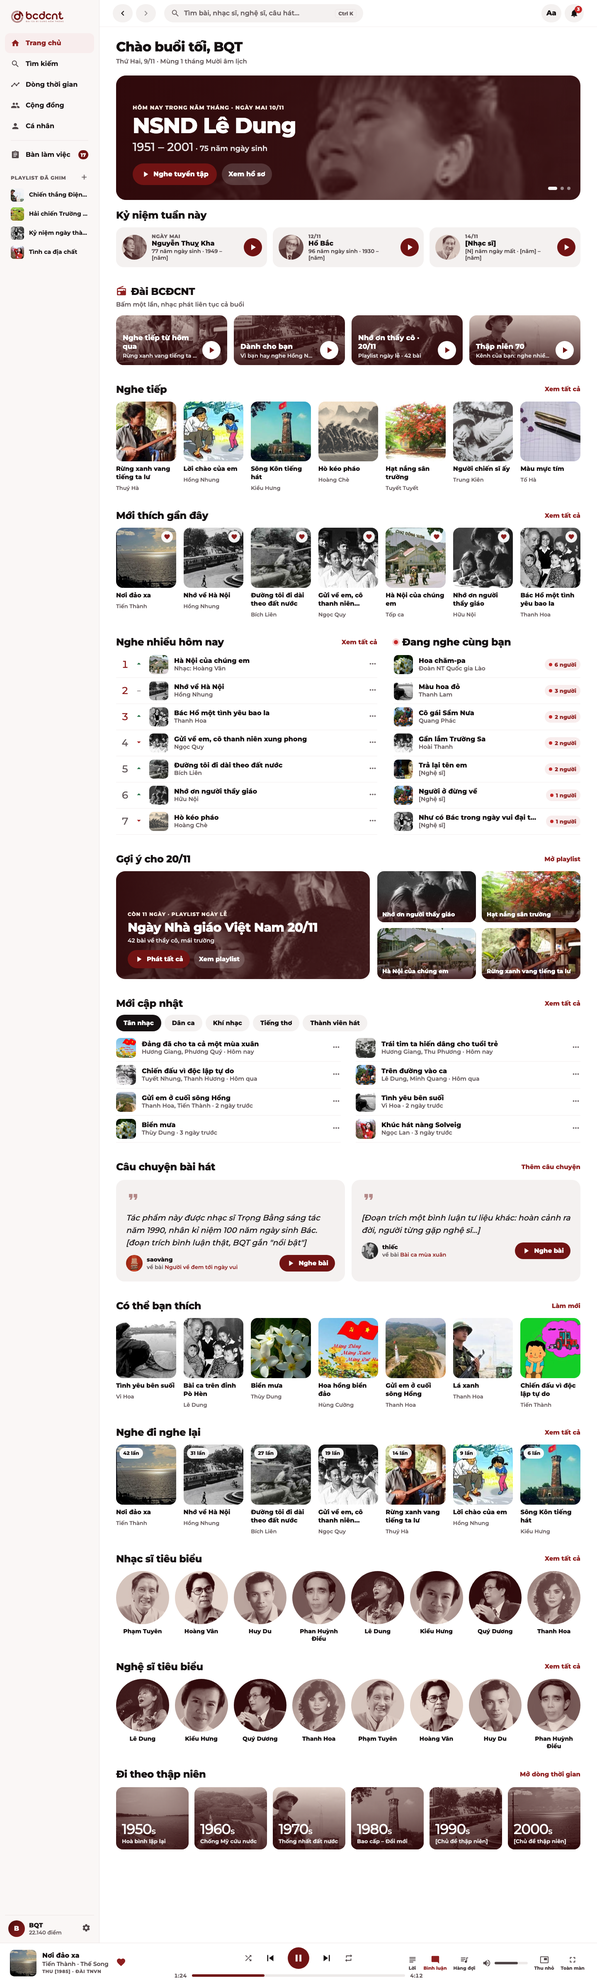
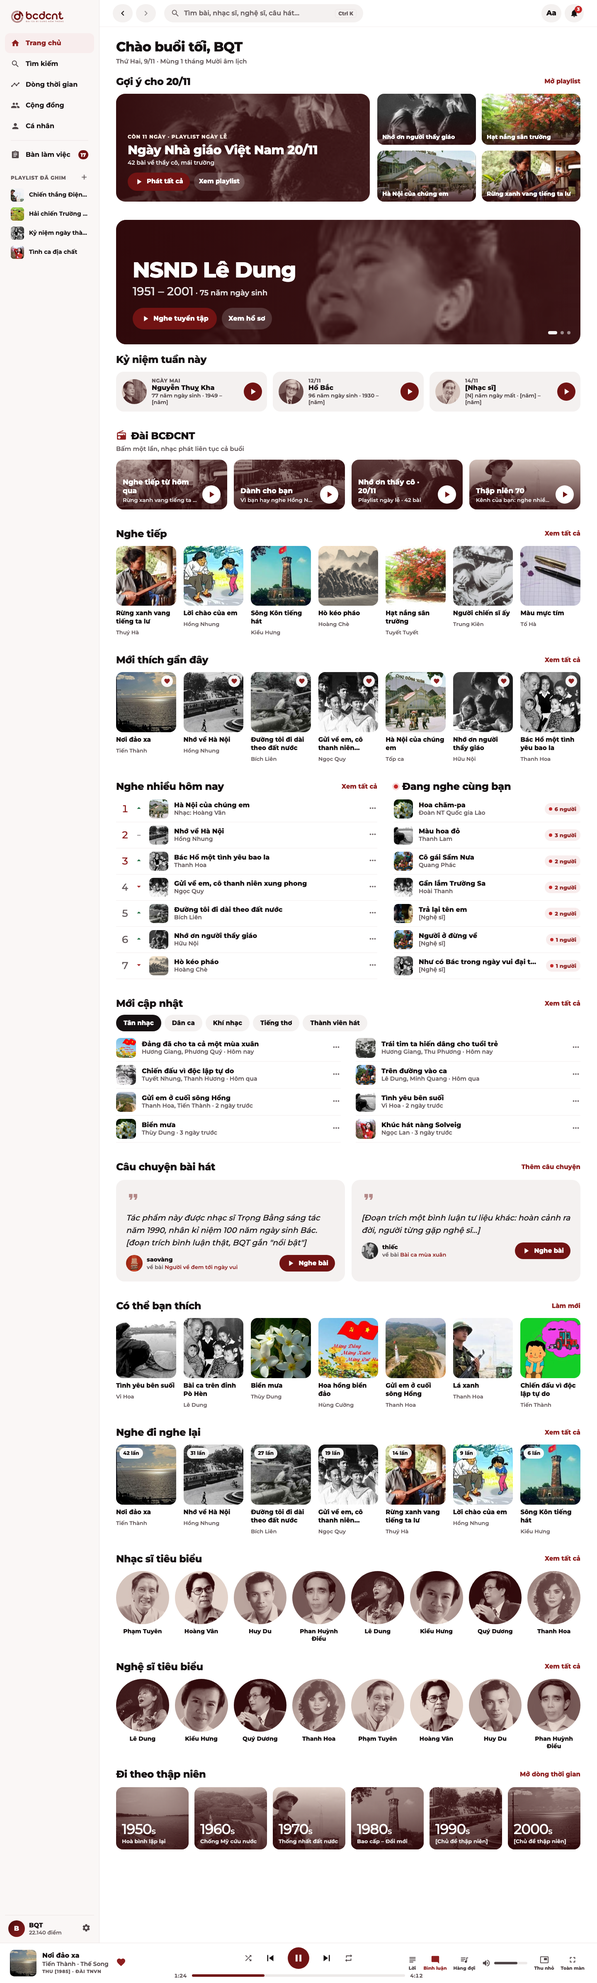
design(canvas): trang chủ desktop: Gợi ý ngày lễ lên đầu, bỏ dòng 'Hôm nay trong năm tháng'

Changed region(s): [[0.1875, 0.0312, 1.0, 0.4987]]

diff --git a/design/canvas/project/Desktop_TrangChu.dc.html b/design/canvas/project/Desktop_TrangChu.dc.html
@@ -32,9 +32,11 @@
 </div><main style="flex: 1; min-height: 0; overflow: hidden"><div style="padding: 28px 40px 56px; max-width: 1180px">
 <!-- Trang chủ desktop đủ khối như mobile (11 khối), thẻ bài 7 cột -->
 <!-- 1 --><div><h1 style="margin: 0; font-size: 32px; font-weight: 800; letter-spacing: -0.7px">Chào buổi tối, BQT</h1><div style="margin-top: 6px; font-size: 15px; font-weight: 600; color: #665C5E">Thứ Hai, 9/11 · Mùng 1 tháng Mười âm lịch</div></div>
-<!-- 2 --><div style="margin-top: 24px">
+<!-- 6 (lên đầu) --><div style="margin-top: 24px"><div style="display: flex; align-items: center; gap: 10px"><h2 style="margin: 0; flex: 1; font-size: 24px; font-weight: 800; letter-spacing: -0.4px">Gợi ý cho 20/11</h2><span style="font-size: 15px; font-weight: 800; color: #8E1F1F">Mở playlist</span></div></div><div style="margin-top: 14px; display: flex; gap: 18px"><div style="flex: 1.25; height: 260px; border-radius: 22px; overflow: hidden; position: relative"><img src="/_blob/ff509d607951ba314cc95c52003e4258" alt="" style="position: absolute; inset: 0; width: 100%; height: 100%; object-fit: cover; filter: url(#brandTint)"><span style="position: absolute; inset: 0; background: linear-gradient(90deg, rgba(46,8,10,0.9), rgba(46,8,10,0.2))"></span><div style="position: absolute; left: 28px; bottom: 26px; right: 28px; color: #fff"><div style="font-size: 12px; font-weight: 800; letter-spacing: 1px; color: #F6E8DE">CÒN 11 NGÀY · PLAYLIST NGÀY LỄ</div><div style="margin-top: 6px; font-size: 30px; font-weight: 800; letter-spacing: -0.6px">Ngày Nhà giáo Việt Nam 20/11</div><div style="margin-top: 4px; font-size: 14px; font-weight: 600; color: rgba(255,255,255,0.85)">42 bài về thầy cô, mái trường</div><div style="margin-top: 14px; display: flex; gap: 10px"><span style="height: 44px; padding: 0 16px; border-radius: 22px; display: inline-flex; align-items: center; gap: 8px; font-size: 15px; font-weight: 800; white-space: nowrap; background: #711313; color: #fff"><svg width="22" height="22" viewBox="0 0 24 24" fill="currentColor" aria-hidden="true" style="flex-shrink: 0"><path d="M8 5v14l11-7z"></path></svg>Phát tất cả</span><span style="height: 44px; padding: 0 12px; border-radius: 22px; display: inline-flex; align-items: center; gap: 8px; font-size: 15px; font-weight: 800; white-space: nowrap; background: rgba(255,255,255,0.16); color: #fff">Xem playlist</span></div></div></div>
+<div style="flex: 1; display: grid; grid-template-columns: 1fr 1fr; gap: 14px"><div style="border-radius: 16px; overflow: hidden; position: relative"><img src="/_blob/ff509d607951ba314cc95c52003e4258" alt="" style="position: absolute; inset: 0; width: 100%; height: 100%; object-fit: cover"><span style="position: absolute; inset: 0; background: linear-gradient(180deg, transparent 40%, rgba(46,8,10,0.85))"></span><span style="position: absolute; left: 12px; right: 12px; bottom: 10px; color: #fff; font-size: 14px; font-weight: 800; line-height: 18px">Nhớ ơn người thầy giáo</span></div><div style="border-radius: 16px; overflow: hidden; position: relative"><img src="/_blob/17cfb26ccce209eb43689b40e97d4991" alt="" style="position: absolute; inset: 0; width: 100%; height: 100%; object-fit: cover"><span style="position: absolute; inset: 0; background: linear-gradient(180deg, transparent 40%, rgba(46,8,10,0.85))"></span><span style="position: absolute; left: 12px; right: 12px; bottom: 10px; color: #fff; font-size: 14px; font-weight: 800; line-height: 18px">Hạt nắng sân trường</span></div><div style="border-radius: 16px; overflow: hidden; position: relative"><img src="/_blob/1bfcbf5bd606aa8a3d5f83975585c1e7" alt="" style="position: absolute; inset: 0; width: 100%; height: 100%; object-fit: cover"><span style="position: absolute; inset: 0; background: linear-gradient(180deg, transparent 40%, rgba(46,8,10,0.85))"></span><span style="position: absolute; left: 12px; right: 12px; bottom: 10px; color: #fff; font-size: 14px; font-weight: 800; line-height: 18px">Hà Nội của chúng em</span></div><div style="border-radius: 16px; overflow: hidden; position: relative"><img src="/_blob/eff02e07bb09eaa1645c9c7b7b91eb61" alt="" style="position: absolute; inset: 0; width: 100%; height: 100%; object-fit: cover"><span style="position: absolute; inset: 0; background: linear-gradient(180deg, transparent 40%, rgba(46,8,10,0.85))"></span><span style="position: absolute; left: 12px; right: 12px; bottom: 10px; color: #fff; font-size: 14px; font-weight: 800; line-height: 18px">Rừng xanh vang tiếng ta lư</span></div></div></div>
+<!-- 2 --><div style="margin-top: 44px">
 <div style="height: 300px; border-radius: 24px; overflow: hidden; position: relative; display: flex; align-items: flex-end"><img src="/_blob/28ee169b79f4516fdef9fdde9aba8fdb" alt="" style="position: absolute; inset: 0; width: 100%; height: 100%; object-fit: cover; object-position: center 25%; filter: url(#brandTint)"><span style="position: absolute; inset: 0; background: linear-gradient(90deg, rgba(46,8,10,0.92) 0%, rgba(46,8,10,0.55) 55%, rgba(46,8,10,0) 100%)"></span>
-<div style="position: relative; padding: 36px 40px; color: #fff; max-width: 620px"><div style="font-size: 13px; font-weight: 800; letter-spacing: 1px; color: #F6E8DE">HÔM NAY TRONG NĂM THÁNG · NGÀY MAI 10/11</div><div style="margin-top: 10px; display: flex; align-items: baseline; gap: 16px"><span style="font-size: 52px; font-weight: 800; letter-spacing: -1.2px; line-height: 1">NSND Lê Dung</span></div><div style="margin-top: 8px; font-size: 18px; font-weight: 600; color: rgba(255,255,255,0.88)"><span style="font-size: 28px; font-weight: 300">1951 – 2001</span> · 75 năm ngày sinh</div>
+<div style="position: relative; padding: 36px 40px; color: #fff; max-width: 620px"><div style="display: flex; align-items: baseline; gap: 16px"><span style="font-size: 52px; font-weight: 800; letter-spacing: -1.2px; line-height: 1">NSND Lê Dung</span></div><div style="margin-top: 8px; font-size: 18px; font-weight: 600; color: rgba(255,255,255,0.88)"><span style="font-size: 28px; font-weight: 300">1951 – 2001</span> · 75 năm ngày sinh</div>
 <div style="margin-top: 22px; display: flex; gap: 12px"><span style="height: 52px; padding: 0 20px; border-radius: 26px; display: inline-flex; align-items: center; gap: 8px; font-size: 16px; font-weight: 800; white-space: nowrap; background: #711313; color: #fff"><svg width="22" height="22" viewBox="0 0 24 24" fill="currentColor" aria-hidden="true" style="flex-shrink: 0"><path d="M8 5v14l11-7z"></path></svg>Nghe tuyển tập</span><span style="height: 52px; padding: 0 16px; border-radius: 26px; display: inline-flex; align-items: center; gap: 8px; font-size: 16px; font-weight: 800; white-space: nowrap; background: rgba(255,255,255,0.16); color: #fff">Xem hồ sơ</span></div></div>
 <div style="position: absolute; right: 24px; bottom: 24px; display: flex; gap: 8px"><span style="width: 22px; height: 8px; border-radius: 4px; background: rgba(255,255,255,0.95)"></span><span style="width: 8px; height: 8px; border-radius: 4px; background: rgba(255,255,255,0.5)"></span><span style="width: 8px; height: 8px; border-radius: 4px; background: rgba(255,255,255,0.5)"></span></div></div>
 </div><div style="margin-top: 22px"><div style="display: flex; align-items: center; gap: 10px"><h2 style="margin: 0; flex: 1; font-size: 24px; font-weight: 800; letter-spacing: -0.4px">Kỷ niệm tuần này</h2></div></div><div style="margin-top: 14px; display: grid; grid-template-columns: repeat(3, 1fr); gap: 14px"><div style="height: 96px; border-radius: 18px; background: #F4F1F0; display: flex; align-items: center; gap: 12px; padding: 0 12px 0 14px"><img src="/_blob/09b4a9d1f3cb118726c46f229ea0c467" alt="" style="width: 60px; height: 60px; border-radius: 30px; object-fit: cover; filter: url(#brandTint)"><span style="flex: 1; min-width: 0; display: flex; flex-direction: column"><span style="font-size: 12px; font-weight: 800; letter-spacing: 0.6px; color: #665C5E">NGÀY MAI</span><span style="font-size: 16px; font-weight: 800; white-space: nowrap; overflow: hidden; text-overflow: ellipsis">Nguyễn Thuỵ Kha</span><span style="font-size: 13px; font-weight: 600; color: #4F4547">77 năm ngày sinh · 1949 – [năm]</span></span><span style="width: 44px; height: 44px; border-radius: 22px; background: #711313; display: flex; align-items: center; justify-content: center"><svg width="24" height="24" viewBox="0 0 24 24" fill="#fff" aria-hidden="true" style="flex-shrink: 0"><path d="M8 5v14l11-7z"></path></svg></span></div><div style="height: 96px; border-radius: 18px; background: #F4F1F0; display: flex; align-items: center; gap: 12px; padding: 0 12px 0 14px"><img src="/_blob/7f1cc5b58b3c1010edc2852ecf82bb45" alt="" style="width: 60px; height: 60px; border-radius: 30px; object-fit: cover; filter: url(#brandTint)"><span style="flex: 1; min-width: 0; display: flex; flex-direction: column"><span style="font-size: 12px; font-weight: 800; letter-spacing: 0.6px; color: #665C5E">12/11</span><span style="font-size: 16px; font-weight: 800; white-space: nowrap; overflow: hidden; text-overflow: ellipsis">Hồ Bắc</span><span style="font-size: 13px; font-weight: 600; color: #4F4547">96 năm ngày sinh · 1930 – [năm]</span></span><span style="width: 44px; height: 44px; border-radius: 22px; background: #711313; display: flex; align-items: center; justify-content: center"><svg width="24" height="24" viewBox="0 0 24 24" fill="#fff" aria-hidden="true" style="flex-shrink: 0"><path d="M8 5v14l11-7z"></path></svg></span></div><div style="height: 96px; border-radius: 18px; background: #F4F1F0; display: flex; align-items: center; gap: 12px; padding: 0 12px 0 14px"><img src="/_blob/d0be117e25da69210e9340d3bc1ad3e9" alt="" style="width: 60px; height: 60px; border-radius: 30px; object-fit: cover; filter: url(#brandTint)"><span style="flex: 1; min-width: 0; display: flex; flex-direction: column"><span style="font-size: 12px; font-weight: 800; letter-spacing: 0.6px; color: #665C5E">14/11</span><span style="font-size: 16px; font-weight: 800; white-space: nowrap; overflow: hidden; text-overflow: ellipsis">[Nhạc sĩ]</span><span style="font-size: 13px; font-weight: 600; color: #4F4547">[N] năm ngày mất · [năm] – [năm]</span></span><span style="width: 44px; height: 44px; border-radius: 22px; background: #711313; display: flex; align-items: center; justify-content: center"><svg width="24" height="24" viewBox="0 0 24 24" fill="#fff" aria-hidden="true" style="flex-shrink: 0"><path d="M8 5v14l11-7z"></path></svg></span></div></div>
@@ -46,8 +48,6 @@
 <div style="display: flex; gap: 40px"><div style="flex: 7; min-width: 0"><div style="display: flex; align-items: center; gap: 10px"><h2 style="margin: 0; flex: 1; font-size: 24px; font-weight: 800; letter-spacing: -0.4px">Nghe nhiều hôm nay</h2><span style="font-size: 15px; font-weight: 800; color: #8E1F1F">Xem tất cả</span></div><div style="margin-top: 8px"><div style="height: 62px; display: flex; align-items: center; gap: 14px; border-bottom: 1px solid #F3EEEE"><span style="width: 30px; text-align: right; font-size: 24px; font-weight: 300; color: #8E1F1F; font-variant-numeric: tabular-nums">1</span><span style="color: #1A6B3C"><svg width="22" height="22" viewBox="0 0 24 24" fill="currentColor" aria-hidden="true" style="flex-shrink: 0"><path d="M7 14l5-5 5 5z"></path></svg></span><img src="/_blob/1bfcbf5bd606aa8a3d5f83975585c1e7" alt="" style="width: 46px; height: 46px; border-radius: 10px; object-fit: cover"><span style="flex: 1; min-width: 0; display: flex; flex-direction: column"><span style="font-size: 16px; font-weight: 800; white-space: nowrap; overflow: hidden; text-overflow: ellipsis">Hà Nội của chúng em</span><span style="font-size: 14px; font-weight: 600; color: #665C5E">Nhạc: Hoàng Vân</span></span><span style="color: #665C5E"><svg width="22" height="22" viewBox="0 0 24 24" fill="currentColor" aria-hidden="true" style="flex-shrink: 0"><path d="M6 10c-1.1 0-2 .9-2 2s.9 2 2 2 2-.9 2-2-.9-2-2-2zm12 0c-1.1 0-2 .9-2 2s.9 2 2 2 2-.9 2-2-.9-2-2-2zm-6 0c-1.1 0-2 .9-2 2s.9 2 2 2 2-.9 2-2-.9-2-2-2z"></path></svg></span></div><div style="height: 62px; display: flex; align-items: center; gap: 14px; border-bottom: 1px solid #F3EEEE"><span style="width: 30px; text-align: right; font-size: 24px; font-weight: 300; color: #8E1F1F; font-variant-numeric: tabular-nums">2</span><span style="width: 22px; text-align: center; color: #665C5E">–</span><img src="/_blob/1c5dda211792aea9143139f889d99c6c" alt="" style="width: 46px; height: 46px; border-radius: 10px; object-fit: cover"><span style="flex: 1; min-width: 0; display: flex; flex-direction: column"><span style="font-size: 16px; font-weight: 800; white-space: nowrap; overflow: hidden; text-overflow: ellipsis">Nhớ về Hà Nội</span><span style="font-size: 14px; font-weight: 600; color: #665C5E">Hồng Nhung</span></span><span style="color: #665C5E"><svg width="22" height="22" viewBox="0 0 24 24" fill="currentColor" aria-hidden="true" style="flex-shrink: 0"><path d="M6 10c-1.1 0-2 .9-2 2s.9 2 2 2 2-.9 2-2-.9-2-2-2zm12 0c-1.1 0-2 .9-2 2s.9 2 2 2 2-.9 2-2-.9-2-2-2zm-6 0c-1.1 0-2 .9-2 2s.9 2 2 2 2-.9 2-2-.9-2-2-2z"></path></svg></span></div><div style="height: 62px; display: flex; align-items: center; gap: 14px; border-bottom: 1px solid #F3EEEE"><span style="width: 30px; text-align: right; font-size: 24px; font-weight: 300; color: #8E1F1F; font-variant-numeric: tabular-nums">3</span><span style="color: #1A6B3C"><svg width="22" height="22" viewBox="0 0 24 24" fill="currentColor" aria-hidden="true" style="flex-shrink: 0"><path d="M7 14l5-5 5 5z"></path></svg></span><img src="/_blob/8baee7a6d349e2f91a66c082861a514c" alt="" style="width: 46px; height: 46px; border-radius: 10px; object-fit: cover"><span style="flex: 1; min-width: 0; display: flex; flex-direction: column"><span style="font-size: 16px; font-weight: 800; white-space: nowrap; overflow: hidden; text-overflow: ellipsis">Bác Hồ một tình yêu bao la</span><span style="font-size: 14px; font-weight: 600; color: #665C5E">Thanh Hoa</span></span><span style="color: #665C5E"><svg width="22" height="22" viewBox="0 0 24 24" fill="currentColor" aria-hidden="true" style="flex-shrink: 0"><path d="M6 10c-1.1 0-2 .9-2 2s.9 2 2 2 2-.9 2-2-.9-2-2-2zm12 0c-1.1 0-2 .9-2 2s.9 2 2 2 2-.9 2-2-.9-2-2-2zm-6 0c-1.1 0-2 .9-2 2s.9 2 2 2 2-.9 2-2-.9-2-2-2z"></path></svg></span></div><div style="height: 62px; display: flex; align-items: center; gap: 14px; border-bottom: 1px solid #F3EEEE"><span style="width: 30px; text-align: right; font-size: 24px; font-weight: 300; color: #665C5E; font-variant-numeric: tabular-nums">4</span><span style="color: #A32020"><svg width="22" height="22" viewBox="0 0 24 24" fill="currentColor" aria-hidden="true" style="flex-shrink: 0"><path d="M7 10l5 5 5-5z"></path></svg></span><img src="/_blob/0a4457564aa3b6ba9b1f0d4937deee1c" alt="" style="width: 46px; height: 46px; border-radius: 10px; object-fit: cover"><span style="flex: 1; min-width: 0; display: flex; flex-direction: column"><span style="font-size: 16px; font-weight: 800; white-space: nowrap; overflow: hidden; text-overflow: ellipsis">Gửi về em, cô thanh niên xung phong</span><span style="font-size: 14px; font-weight: 600; color: #665C5E">Ngọc Quy</span></span><span style="color: #665C5E"><svg width="22" height="22" viewBox="0 0 24 24" fill="currentColor" aria-hidden="true" style="flex-shrink: 0"><path d="M6 10c-1.1 0-2 .9-2 2s.9 2 2 2 2-.9 2-2-.9-2-2-2zm12 0c-1.1 0-2 .9-2 2s.9 2 2 2 2-.9 2-2-.9-2-2-2zm-6 0c-1.1 0-2 .9-2 2s.9 2 2 2 2-.9 2-2-.9-2-2-2z"></path></svg></span></div><div style="height: 62px; display: flex; align-items: center; gap: 14px; border-bottom: 1px solid #F3EEEE"><span style="width: 30px; text-align: right; font-size: 24px; font-weight: 300; color: #665C5E; font-variant-numeric: tabular-nums">5</span><span style="color: #1A6B3C"><svg width="22" height="22" viewBox="0 0 24 24" fill="currentColor" aria-hidden="true" style="flex-shrink: 0"><path d="M7 14l5-5 5 5z"></path></svg></span><img src="/_blob/f222b661580510c678d788ff90f68dbb" alt="" style="width: 46px; height: 46px; border-radius: 10px; object-fit: cover"><span style="flex: 1; min-width: 0; display: flex; flex-direction: column"><span style="font-size: 16px; font-weight: 800; white-space: nowrap; overflow: hidden; text-overflow: ellipsis">Đường tôi đi dài theo đất nước</span><span style="font-size: 14px; font-weight: 600; color: #665C5E">Bích Liên</span></span><span style="color: #665C5E"><svg width="22" height="22" viewBox="0 0 24 24" fill="currentColor" aria-hidden="true" style="flex-shrink: 0"><path d="M6 10c-1.1 0-2 .9-2 2s.9 2 2 2 2-.9 2-2-.9-2-2-2zm12 0c-1.1 0-2 .9-2 2s.9 2 2 2 2-.9 2-2-.9-2-2-2zm-6 0c-1.1 0-2 .9-2 2s.9 2 2 2 2-.9 2-2-.9-2-2-2z"></path></svg></span></div><div style="height: 62px; display: flex; align-items: center; gap: 14px; border-bottom: 1px solid #F3EEEE"><span style="width: 30px; text-align: right; font-size: 24px; font-weight: 300; color: #665C5E; font-variant-numeric: tabular-nums">6</span><span style="color: #1A6B3C"><svg width="22" height="22" viewBox="0 0 24 24" fill="currentColor" aria-hidden="true" style="flex-shrink: 0"><path d="M7 14l5-5 5 5z"></path></svg></span><img src="/_blob/ff509d607951ba314cc95c52003e4258" alt="" style="width: 46px; height: 46px; border-radius: 10px; object-fit: cover"><span style="flex: 1; min-width: 0; display: flex; flex-direction: column"><span style="font-size: 16px; font-weight: 800; white-space: nowrap; overflow: hidden; text-overflow: ellipsis">Nhớ ơn người thầy giáo</span><span style="font-size: 14px; font-weight: 600; color: #665C5E">Hữu Nội</span></span><span style="color: #665C5E"><svg width="22" height="22" viewBox="0 0 24 24" fill="currentColor" aria-hidden="true" style="flex-shrink: 0"><path d="M6 10c-1.1 0-2 .9-2 2s.9 2 2 2 2-.9 2-2-.9-2-2-2zm12 0c-1.1 0-2 .9-2 2s.9 2 2 2 2-.9 2-2-.9-2-2-2zm-6 0c-1.1 0-2 .9-2 2s.9 2 2 2 2-.9 2-2-.9-2-2-2z"></path></svg></span></div><div style="height: 62px; display: flex; align-items: center; gap: 14px; border-bottom: 1px solid #F3EEEE"><span style="width: 30px; text-align: right; font-size: 24px; font-weight: 300; color: #665C5E; font-variant-numeric: tabular-nums">7</span><span style="color: #A32020"><svg width="22" height="22" viewBox="0 0 24 24" fill="currentColor" aria-hidden="true" style="flex-shrink: 0"><path d="M7 10l5 5 5-5z"></path></svg></span><img src="/_blob/a9096ffd363b586c77cb3ea2026d1dcd" alt="" style="width: 46px; height: 46px; border-radius: 10px; object-fit: cover"><span style="flex: 1; min-width: 0; display: flex; flex-direction: column"><span style="font-size: 16px; font-weight: 800; white-space: nowrap; overflow: hidden; text-overflow: ellipsis">Hò kéo pháo</span><span style="font-size: 14px; font-weight: 600; color: #665C5E">Hoàng Chè</span></span><span style="color: #665C5E"><svg width="22" height="22" viewBox="0 0 24 24" fill="currentColor" aria-hidden="true" style="flex-shrink: 0"><path d="M6 10c-1.1 0-2 .9-2 2s.9 2 2 2 2-.9 2-2-.9-2-2-2zm12 0c-1.1 0-2 .9-2 2s.9 2 2 2 2-.9 2-2-.9-2-2-2zm-6 0c-1.1 0-2 .9-2 2s.9 2 2 2 2-.9 2-2-.9-2-2-2z"></path></svg></span></div></div></div>
 <div style="flex: 5; min-width: 0"><div style="display: flex; align-items: center; gap: 10px"><span style="width: 10px; height: 10px; border-radius: 5px; background: #C62828; box-shadow: 0 0 0 4px rgba(198,40,40,0.18)"></span><h2 style="margin: 0; flex: 1; font-size: 24px; font-weight: 800; letter-spacing: -0.4px">Đang nghe cùng bạn</h2></div><div style="margin-top: 8px"><div style="height: 62px; display: flex; align-items: center; gap: 14px; border-bottom: 1px solid #F3EEEE"><img src="/_blob/f520b17616b7a1ff42e948df74ae122e" alt="" style="width: 46px; height: 46px; border-radius: 10px; object-fit: cover"><span style="flex: 1; min-width: 0; display: flex; flex-direction: column"><span style="font-size: 16px; font-weight: 800; white-space: nowrap; overflow: hidden; text-overflow: ellipsis">Hoa chăm-pa</span><span style="font-size: 14px; font-weight: 600; color: #665C5E">Đoàn NT Quốc gia Lào</span></span><span style="height: 28px; padding: 0 10px; border-radius: 14px; background: #F8EDED; display: flex; align-items: center; gap: 6px; font-size: 13px; font-weight: 800; color: #8E1F1F"><span style="width: 8px; height: 8px; border-radius: 4px; background: #C62828"></span>6 người</span></div><div style="height: 62px; display: flex; align-items: center; gap: 14px; border-bottom: 1px solid #F3EEEE"><img src="/_blob/7e2d7c5649d64d8ad3cf4bd6471351c3" alt="" style="width: 46px; height: 46px; border-radius: 10px; object-fit: cover"><span style="flex: 1; min-width: 0; display: flex; flex-direction: column"><span style="font-size: 16px; font-weight: 800; white-space: nowrap; overflow: hidden; text-overflow: ellipsis">Màu hoa đỏ</span><span style="font-size: 14px; font-weight: 600; color: #665C5E">Thanh Lam</span></span><span style="height: 28px; padding: 0 10px; border-radius: 14px; background: #F8EDED; display: flex; align-items: center; gap: 6px; font-size: 13px; font-weight: 800; color: #8E1F1F"><span style="width: 8px; height: 8px; border-radius: 4px; background: #C62828"></span>3 người</span></div><div style="height: 62px; display: flex; align-items: center; gap: 14px; border-bottom: 1px solid #F3EEEE"><img src="/_blob/7a0578b51c0f15e40091ebdd693cb004" alt="" style="width: 46px; height: 46px; border-radius: 10px; object-fit: cover"><span style="flex: 1; min-width: 0; display: flex; flex-direction: column"><span style="font-size: 16px; font-weight: 800; white-space: nowrap; overflow: hidden; text-overflow: ellipsis">Cô gái Sầm Nưa</span><span style="font-size: 14px; font-weight: 600; color: #665C5E">Quang Phác</span></span><span style="height: 28px; padding: 0 10px; border-radius: 14px; background: #F8EDED; display: flex; align-items: center; gap: 6px; font-size: 13px; font-weight: 800; color: #8E1F1F"><span style="width: 8px; height: 8px; border-radius: 4px; background: #C62828"></span>2 người</span></div><div style="height: 62px; display: flex; align-items: center; gap: 14px; border-bottom: 1px solid #F3EEEE"><img src="/_blob/28557d72a5f5b9f87df41e7058472a2a" alt="" style="width: 46px; height: 46px; border-radius: 10px; object-fit: cover"><span style="flex: 1; min-width: 0; display: flex; flex-direction: column"><span style="font-size: 16px; font-weight: 800; white-space: nowrap; overflow: hidden; text-overflow: ellipsis">Gần lắm Trường Sa</span><span style="font-size: 14px; font-weight: 600; color: #665C5E">Hoài Thanh</span></span><span style="height: 28px; padding: 0 10px; border-radius: 14px; background: #F8EDED; display: flex; align-items: center; gap: 6px; font-size: 13px; font-weight: 800; color: #8E1F1F"><span style="width: 8px; height: 8px; border-radius: 4px; background: #C62828"></span>2 người</span></div><div style="height: 62px; display: flex; align-items: center; gap: 14px; border-bottom: 1px solid #F3EEEE"><img src="/_blob/d48470afaf7ea0329edef009ce081dba" alt="" style="width: 46px; height: 46px; border-radius: 10px; object-fit: cover"><span style="flex: 1; min-width: 0; display: flex; flex-direction: column"><span style="font-size: 16px; font-weight: 800; white-space: nowrap; overflow: hidden; text-overflow: ellipsis">Trả lại tên em</span><span style="font-size: 14px; font-weight: 600; color: #665C5E">[Nghệ sĩ]</span></span><span style="height: 28px; padding: 0 10px; border-radius: 14px; background: #F8EDED; display: flex; align-items: center; gap: 6px; font-size: 13px; font-weight: 800; color: #8E1F1F"><span style="width: 8px; height: 8px; border-radius: 4px; background: #C62828"></span>2 người</span></div><div style="height: 62px; display: flex; align-items: center; gap: 14px; border-bottom: 1px solid #F3EEEE"><img src="/_blob/407334b38fb39dee547379140b934f8e" alt="" style="width: 46px; height: 46px; border-radius: 10px; object-fit: cover"><span style="flex: 1; min-width: 0; display: flex; flex-direction: column"><span style="font-size: 16px; font-weight: 800; white-space: nowrap; overflow: hidden; text-overflow: ellipsis">Người ở đừng về</span><span style="font-size: 14px; font-weight: 600; color: #665C5E">[Nghệ sĩ]</span></span><span style="height: 28px; padding: 0 10px; border-radius: 14px; background: #F8EDED; display: flex; align-items: center; gap: 6px; font-size: 13px; font-weight: 800; color: #8E1F1F"><span style="width: 8px; height: 8px; border-radius: 4px; background: #C62828"></span>1 người</span></div><div style="height: 62px; display: flex; align-items: center; gap: 14px; border-bottom: 1px solid #F3EEEE"><img src="/_blob/bb15a0633800c97866b0575ac7a8efe3" alt="" style="width: 46px; height: 46px; border-radius: 10px; object-fit: cover"><span style="flex: 1; min-width: 0; display: flex; flex-direction: column"><span style="font-size: 16px; font-weight: 800; white-space: nowrap; overflow: hidden; text-overflow: ellipsis">Như có Bác trong ngày vui đại thắng</span><span style="font-size: 14px; font-weight: 600; color: #665C5E">[Nghệ sĩ]</span></span><span style="height: 28px; padding: 0 10px; border-radius: 14px; background: #F8EDED; display: flex; align-items: center; gap: 6px; font-size: 13px; font-weight: 800; color: #8E1F1F"><span style="width: 8px; height: 8px; border-radius: 4px; background: #C62828"></span>1 người</span></div></div></div></div>
 </div>
-<!-- 6 --><div style="margin-top: 44px"><div style="display: flex; align-items: center; gap: 10px"><h2 style="margin: 0; flex: 1; font-size: 24px; font-weight: 800; letter-spacing: -0.4px">Gợi ý cho 20/11</h2><span style="font-size: 15px; font-weight: 800; color: #8E1F1F">Mở playlist</span></div></div><div style="margin-top: 14px; display: flex; gap: 18px"><div style="flex: 1.25; height: 260px; border-radius: 22px; overflow: hidden; position: relative"><img src="/_blob/ff509d607951ba314cc95c52003e4258" alt="" style="position: absolute; inset: 0; width: 100%; height: 100%; object-fit: cover; filter: url(#brandTint)"><span style="position: absolute; inset: 0; background: linear-gradient(90deg, rgba(46,8,10,0.9), rgba(46,8,10,0.2))"></span><div style="position: absolute; left: 28px; bottom: 26px; right: 28px; color: #fff"><div style="font-size: 12px; font-weight: 800; letter-spacing: 1px; color: #F6E8DE">CÒN 11 NGÀY · PLAYLIST NGÀY LỄ</div><div style="margin-top: 6px; font-size: 30px; font-weight: 800; letter-spacing: -0.6px">Ngày Nhà giáo Việt Nam 20/11</div><div style="margin-top: 4px; font-size: 14px; font-weight: 600; color: rgba(255,255,255,0.85)">42 bài về thầy cô, mái trường</div><div style="margin-top: 14px; display: flex; gap: 10px"><span style="height: 44px; padding: 0 16px; border-radius: 22px; display: inline-flex; align-items: center; gap: 8px; font-size: 15px; font-weight: 800; white-space: nowrap; background: #711313; color: #fff"><svg width="22" height="22" viewBox="0 0 24 24" fill="currentColor" aria-hidden="true" style="flex-shrink: 0"><path d="M8 5v14l11-7z"></path></svg>Phát tất cả</span><span style="height: 44px; padding: 0 12px; border-radius: 22px; display: inline-flex; align-items: center; gap: 8px; font-size: 15px; font-weight: 800; white-space: nowrap; background: rgba(255,255,255,0.16); color: #fff">Xem playlist</span></div></div></div>
-<div style="flex: 1; display: grid; grid-template-columns: 1fr 1fr; gap: 14px"><div style="border-radius: 16px; overflow: hidden; position: relative"><img src="/_blob/ff509d607951ba314cc95c52003e4258" alt="" style="position: absolute; inset: 0; width: 100%; height: 100%; object-fit: cover"><span style="position: absolute; inset: 0; background: linear-gradient(180deg, transparent 40%, rgba(46,8,10,0.85))"></span><span style="position: absolute; left: 12px; right: 12px; bottom: 10px; color: #fff; font-size: 14px; font-weight: 800; line-height: 18px">Nhớ ơn người thầy giáo</span></div><div style="border-radius: 16px; overflow: hidden; position: relative"><img src="/_blob/17cfb26ccce209eb43689b40e97d4991" alt="" style="position: absolute; inset: 0; width: 100%; height: 100%; object-fit: cover"><span style="position: absolute; inset: 0; background: linear-gradient(180deg, transparent 40%, rgba(46,8,10,0.85))"></span><span style="position: absolute; left: 12px; right: 12px; bottom: 10px; color: #fff; font-size: 14px; font-weight: 800; line-height: 18px">Hạt nắng sân trường</span></div><div style="border-radius: 16px; overflow: hidden; position: relative"><img src="/_blob/1bfcbf5bd606aa8a3d5f83975585c1e7" alt="" style="position: absolute; inset: 0; width: 100%; height: 100%; object-fit: cover"><span style="position: absolute; inset: 0; background: linear-gradient(180deg, transparent 40%, rgba(46,8,10,0.85))"></span><span style="position: absolute; left: 12px; right: 12px; bottom: 10px; color: #fff; font-size: 14px; font-weight: 800; line-height: 18px">Hà Nội của chúng em</span></div><div style="border-radius: 16px; overflow: hidden; position: relative"><img src="/_blob/eff02e07bb09eaa1645c9c7b7b91eb61" alt="" style="position: absolute; inset: 0; width: 100%; height: 100%; object-fit: cover"><span style="position: absolute; inset: 0; background: linear-gradient(180deg, transparent 40%, rgba(46,8,10,0.85))"></span><span style="position: absolute; left: 12px; right: 12px; bottom: 10px; color: #fff; font-size: 14px; font-weight: 800; line-height: 18px">Rừng xanh vang tiếng ta lư</span></div></div></div>
 <!-- 7 --><div style="margin-top: 44px"><div style="display: flex; align-items: center; gap: 10px"><h2 style="margin: 0; flex: 1; font-size: 24px; font-weight: 800; letter-spacing: -0.4px">Mới cập nhật</h2><span style="font-size: 15px; font-weight: 800; color: #8E1F1F">Xem tất cả</span></div></div><div style="margin-top: 12px; display: flex; gap: 8px"><span style="height: 40px; padding: 0 18px; border-radius: 20px; display: flex; align-items: center; font-size: 15px; font-weight: 800; white-space: nowrap; background: #161112; color: #fff">Tân nhạc</span><span style="height: 40px; padding: 0 18px; border-radius: 20px; display: flex; align-items: center; font-size: 15px; font-weight: 800; white-space: nowrap; background: #F4F1F0">Dân ca</span><span style="height: 40px; padding: 0 18px; border-radius: 20px; display: flex; align-items: center; font-size: 15px; font-weight: 800; white-space: nowrap; background: #F4F1F0">Khí nhạc</span><span style="height: 40px; padding: 0 18px; border-radius: 20px; display: flex; align-items: center; font-size: 15px; font-weight: 800; white-space: nowrap; background: #F4F1F0">Tiếng thơ</span><span style="height: 40px; padding: 0 18px; border-radius: 20px; display: flex; align-items: center; font-size: 15px; font-weight: 800; white-space: nowrap; background: #F4F1F0">Thành viên hát</span></div><div style="margin-top: 8px; display: grid; grid-template-columns: 1fr 1fr; column-gap: 36px"><div style="height: 64px; display: flex; align-items: center; gap: 14px; border-bottom: 1px solid #F3EEEE"><img src="/_blob/bb3b0f0da1d0e24961fccd46653d78fd" alt="" style="width: 48px; height: 48px; border-radius: 10px; object-fit: cover"><span style="flex: 1; min-width: 0; display: flex; flex-direction: column"><span style="font-size: 16px; font-weight: 800; white-space: nowrap; overflow: hidden; text-overflow: ellipsis">Đảng đã cho ta cả một mùa xuân</span><span style="font-size: 14px; font-weight: 600; color: #665C5E">Hương Giang, Phương Quý · Hôm nay</span></span><span style="color: #665C5E"><svg width="22" height="22" viewBox="0 0 24 24" fill="currentColor" aria-hidden="true" style="flex-shrink: 0"><path d="M6 10c-1.1 0-2 .9-2 2s.9 2 2 2 2-.9 2-2-.9-2-2-2zm12 0c-1.1 0-2 .9-2 2s.9 2 2 2 2-.9 2-2-.9-2-2-2zm-6 0c-1.1 0-2 .9-2 2s.9 2 2 2 2-.9 2-2-.9-2-2-2z"></path></svg></span></div><div style="height: 64px; display: flex; align-items: center; gap: 14px; border-bottom: 1px solid #F3EEEE"><img src="/_blob/c3eb49be84f21d30d39a418683ce57e7" alt="" style="width: 48px; height: 48px; border-radius: 10px; object-fit: cover"><span style="flex: 1; min-width: 0; display: flex; flex-direction: column"><span style="font-size: 16px; font-weight: 800; white-space: nowrap; overflow: hidden; text-overflow: ellipsis">Trái tim ta hiến dâng cho tuổi trẻ</span><span style="font-size: 14px; font-weight: 600; color: #665C5E">Hương Giang, Thu Phương · Hôm nay</span></span><span style="color: #665C5E"><svg width="22" height="22" viewBox="0 0 24 24" fill="currentColor" aria-hidden="true" style="flex-shrink: 0"><path d="M6 10c-1.1 0-2 .9-2 2s.9 2 2 2 2-.9 2-2-.9-2-2-2zm12 0c-1.1 0-2 .9-2 2s.9 2 2 2 2-.9 2-2-.9-2-2-2zm-6 0c-1.1 0-2 .9-2 2s.9 2 2 2 2-.9 2-2-.9-2-2-2z"></path></svg></span></div><div style="height: 64px; display: flex; align-items: center; gap: 14px; border-bottom: 1px solid #F3EEEE"><img src="/_blob/7029255daca5bbae966e61e9fb4e27d7" alt="" style="width: 48px; height: 48px; border-radius: 10px; object-fit: cover"><span style="flex: 1; min-width: 0; display: flex; flex-direction: column"><span style="font-size: 16px; font-weight: 800; white-space: nowrap; overflow: hidden; text-overflow: ellipsis">Chiến đấu vì độc lập tự do</span><span style="font-size: 14px; font-weight: 600; color: #665C5E">Tuyết Nhung, Thanh Hương · Hôm qua</span></span><span style="color: #665C5E"><svg width="22" height="22" viewBox="0 0 24 24" fill="currentColor" aria-hidden="true" style="flex-shrink: 0"><path d="M6 10c-1.1 0-2 .9-2 2s.9 2 2 2 2-.9 2-2-.9-2-2-2zm12 0c-1.1 0-2 .9-2 2s.9 2 2 2 2-.9 2-2-.9-2-2-2zm-6 0c-1.1 0-2 .9-2 2s.9 2 2 2 2-.9 2-2-.9-2-2-2z"></path></svg></span></div><div style="height: 64px; display: flex; align-items: center; gap: 14px; border-bottom: 1px solid #F3EEEE"><img src="/_blob/407334b38fb39dee547379140b934f8e" alt="" style="width: 48px; height: 48px; border-radius: 10px; object-fit: cover"><span style="flex: 1; min-width: 0; display: flex; flex-direction: column"><span style="font-size: 16px; font-weight: 800; white-space: nowrap; overflow: hidden; text-overflow: ellipsis">Trên đường vào ca</span><span style="font-size: 14px; font-weight: 600; color: #665C5E">Lê Dung, Minh Quang · Hôm qua</span></span><span style="color: #665C5E"><svg width="22" height="22" viewBox="0 0 24 24" fill="currentColor" aria-hidden="true" style="flex-shrink: 0"><path d="M6 10c-1.1 0-2 .9-2 2s.9 2 2 2 2-.9 2-2-.9-2-2-2zm12 0c-1.1 0-2 .9-2 2s.9 2 2 2 2-.9 2-2-.9-2-2-2zm-6 0c-1.1 0-2 .9-2 2s.9 2 2 2 2-.9 2-2-.9-2-2-2z"></path></svg></span></div><div style="height: 64px; display: flex; align-items: center; gap: 14px; border-bottom: 1px solid #F3EEEE"><img src="/_blob/347a87561e5096b8ac982c0ba4fe4ee2" alt="" style="width: 48px; height: 48px; border-radius: 10px; object-fit: cover"><span style="flex: 1; min-width: 0; display: flex; flex-direction: column"><span style="font-size: 16px; font-weight: 800; white-space: nowrap; overflow: hidden; text-overflow: ellipsis">Gửi em ở cuối sông Hồng</span><span style="font-size: 14px; font-weight: 600; color: #665C5E">Thanh Hoa, Tiến Thành · 2 ngày trước</span></span><span style="color: #665C5E"><svg width="22" height="22" viewBox="0 0 24 24" fill="currentColor" aria-hidden="true" style="flex-shrink: 0"><path d="M6 10c-1.1 0-2 .9-2 2s.9 2 2 2 2-.9 2-2-.9-2-2-2zm12 0c-1.1 0-2 .9-2 2s.9 2 2 2 2-.9 2-2-.9-2-2-2zm-6 0c-1.1 0-2 .9-2 2s.9 2 2 2 2-.9 2-2-.9-2-2-2z"></path></svg></span></div><div style="height: 64px; display: flex; align-items: center; gap: 14px; border-bottom: 1px solid #F3EEEE"><img src="/_blob/4389c9865793c9555b85222a96bc6261" alt="" style="width: 48px; height: 48px; border-radius: 10px; object-fit: cover"><span style="flex: 1; min-width: 0; display: flex; flex-direction: column"><span style="font-size: 16px; font-weight: 800; white-space: nowrap; overflow: hidden; text-overflow: ellipsis">Tình yêu bên suối</span><span style="font-size: 14px; font-weight: 600; color: #665C5E">Vi Hoa · 2 ngày trước</span></span><span style="color: #665C5E"><svg width="22" height="22" viewBox="0 0 24 24" fill="currentColor" aria-hidden="true" style="flex-shrink: 0"><path d="M6 10c-1.1 0-2 .9-2 2s.9 2 2 2 2-.9 2-2-.9-2-2-2zm12 0c-1.1 0-2 .9-2 2s.9 2 2 2 2-.9 2-2-.9-2-2-2zm-6 0c-1.1 0-2 .9-2 2s.9 2 2 2 2-.9 2-2-.9-2-2-2z"></path></svg></span></div><div style="height: 64px; display: flex; align-items: center; gap: 14px; border-bottom: 1px solid #F3EEEE"><img src="/_blob/df179115019a3ccc2745790e41db9e77" alt="" style="width: 48px; height: 48px; border-radius: 10px; object-fit: cover"><span style="flex: 1; min-width: 0; display: flex; flex-direction: column"><span style="font-size: 16px; font-weight: 800; white-space: nowrap; overflow: hidden; text-overflow: ellipsis">Biển mưa</span><span style="font-size: 14px; font-weight: 600; color: #665C5E">Thùy Dung · 3 ngày trước</span></span><span style="color: #665C5E"><svg width="22" height="22" viewBox="0 0 24 24" fill="currentColor" aria-hidden="true" style="flex-shrink: 0"><path d="M6 10c-1.1 0-2 .9-2 2s.9 2 2 2 2-.9 2-2-.9-2-2-2zm12 0c-1.1 0-2 .9-2 2s.9 2 2 2 2-.9 2-2-.9-2-2-2zm-6 0c-1.1 0-2 .9-2 2s.9 2 2 2 2-.9 2-2-.9-2-2-2z"></path></svg></span></div><div style="height: 64px; display: flex; align-items: center; gap: 14px; border-bottom: 1px solid #F3EEEE"><img src="/_blob/6cc19bfea22f29ee669879d6f5a7c855" alt="" style="width: 48px; height: 48px; border-radius: 10px; object-fit: cover"><span style="flex: 1; min-width: 0; display: flex; flex-direction: column"><span style="font-size: 16px; font-weight: 800; white-space: nowrap; overflow: hidden; text-overflow: ellipsis">Khúc hát nàng Solveig</span><span style="font-size: 14px; font-weight: 600; color: #665C5E">Ngọc Lan · 3 ngày trước</span></span><span style="color: #665C5E"><svg width="22" height="22" viewBox="0 0 24 24" fill="currentColor" aria-hidden="true" style="flex-shrink: 0"><path d="M6 10c-1.1 0-2 .9-2 2s.9 2 2 2 2-.9 2-2-.9-2-2-2zm12 0c-1.1 0-2 .9-2 2s.9 2 2 2 2-.9 2-2-.9-2-2-2zm-6 0c-1.1 0-2 .9-2 2s.9 2 2 2 2-.9 2-2-.9-2-2-2z"></path></svg></span></div></div>
 <!-- 8 --><div style="margin-top: 44px">
 <div style="margin-top: 0"><div style="display: flex; align-items: center; gap: 10px"><h2 style="margin: 0; flex: 1; font-size: 24px; font-weight: 800; letter-spacing: -0.4px">Câu chuyện bài hát</h2><span style="font-size: 15px; font-weight: 800; color: #8E1F1F">Thêm câu chuyện</span></div><div style="margin-top: 16px; display: flex; gap: 16px"><div style="flex: 1; border-radius: 20px; background: #F4F1F0; padding: 24px; display: flex; flex-direction: column; gap: 14px"><span style="color: #B48988"><svg width="34" height="34" viewBox="0 0 24 24" fill="currentColor" aria-hidden="true" style="flex-shrink: 0"><path d="M6 17h3l2-4V7H5v6h3zm8 0h3l2-4V7h-6v6h3z"></path></svg></span><div style="font-size: 19px; line-height: 30px; font-style: italic; font-weight: 500">Tác phẩm này được nhạc sĩ Trọng Bằng sáng tác năm 1990, nhân kỉ niệm 100 năm ngày sinh Bác. [đoạn trích bình luận thật, BQT gắn "nổi bật"]</div><div style="display: flex; align-items: center; gap: 10px"><img src="/_blob/82eaabf5353f0932631acc5c429f9aef" alt="" style="width: 40px; height: 40px; border-radius: 20px; object-fit: cover"><span style="flex: 1; display: flex; flex-direction: column"><span style="font-size: 14px; font-weight: 800">saovàng</span><span style="font-size: 13px; font-weight: 600; color: #665C5E">về bài <span style="color: #8E1F1F">Người về đem tới ngày vui</span></span></span><span style="height: 40px; padding: 0 16px; border-radius: 20px; display: inline-flex; align-items: center; gap: 8px; font-size: 15px; font-weight: 800; white-space: nowrap; background: #711313; color: #fff"><svg width="22" height="22" viewBox="0 0 24 24" fill="currentColor" aria-hidden="true" style="flex-shrink: 0"><path d="M8 5v14l11-7z"></path></svg>Nghe bài</span></div></div><div style="flex: 1; border-radius: 20px; background: #F4F1F0; padding: 24px; display: flex; flex-direction: column; gap: 14px"><span style="color: #B48988"><svg width="34" height="34" viewBox="0 0 24 24" fill="currentColor" aria-hidden="true" style="flex-shrink: 0"><path d="M6 17h3l2-4V7H5v6h3zm8 0h3l2-4V7h-6v6h3z"></path></svg></span><div style="font-size: 19px; line-height: 30px; font-style: italic; font-weight: 500">[Đoạn trích một bình luận tư liệu khác: hoàn cảnh ra đời, người từng gặp nghệ sĩ…]</div><div style="display: flex; align-items: center; gap: 10px"><img src="/_blob/a97d0f68f2204caebbee0ae2a5197797" alt="" style="width: 40px; height: 40px; border-radius: 20px; object-fit: cover"><span style="flex: 1; display: flex; flex-direction: column"><span style="font-size: 14px; font-weight: 800">thiếc</span><span style="font-size: 13px; font-weight: 600; color: #665C5E">về bài <span style="color: #8E1F1F">Bài ca mùa xuân</span></span></span><span style="height: 40px; padding: 0 16px; border-radius: 20px; display: inline-flex; align-items: center; gap: 8px; font-size: 15px; font-weight: 800; white-space: nowrap; background: #711313; color: #fff"><svg width="22" height="22" viewBox="0 0 24 24" fill="currentColor" aria-hidden="true" style="flex-shrink: 0"><path d="M8 5v14l11-7z"></path></svg>Nghe bài</span></div></div></div></div>
